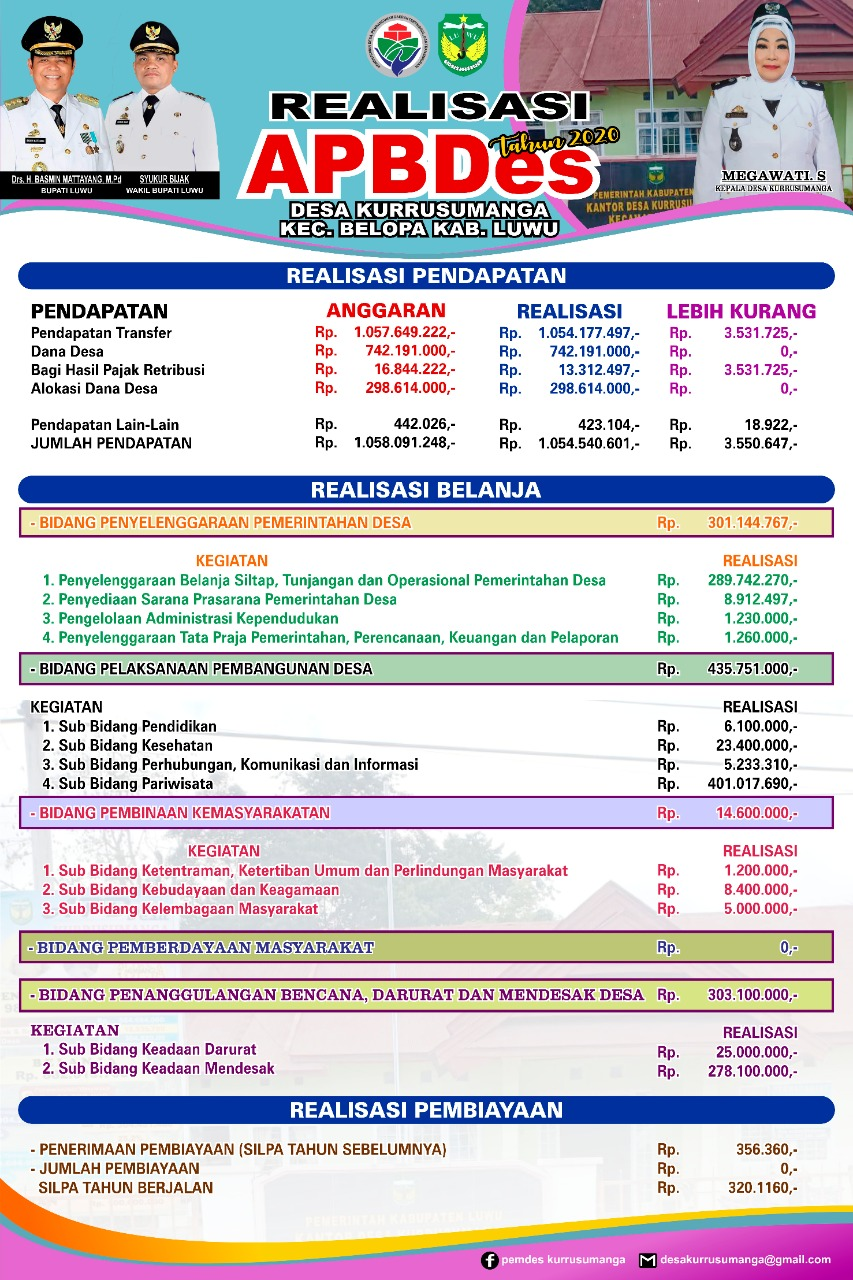
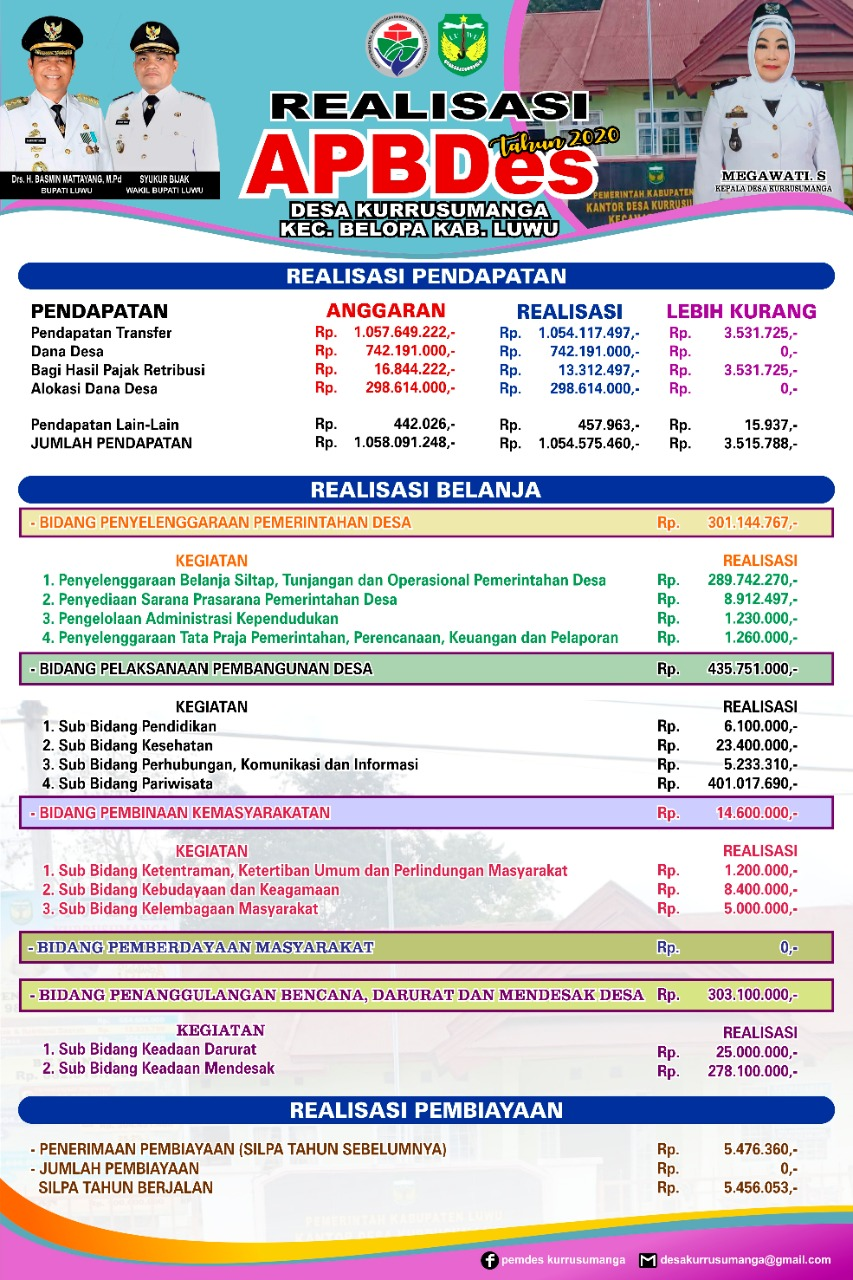
update web

diff --git a/resources/views/welcome.blade.php b/resources/views/welcome.blade.php
@@ -192,7 +192,7 @@
             <div class="team-member">
               <figure>
                 <ul class="social">
-                  <li><a href="https://web.facebook.com/megawati.i.hajar" target="_blank"><span class="icon-facebook"></span></a></li>
+                  <li><a href="https://web.facebook.com/profile.php?id=100043012689565" target="_blank"><span class="icon-facebook"></span></a></li>
                 </ul>
                 <img src="/images/kades.jpg" alt="Image" class="img-fluid">
               </figure>
@@ -287,7 +287,7 @@
                 <ul class="social">
                   <li><a href="https://web.facebook.com/suaib.yusuf.77"><span class="icon-facebook"></span></a></li>
                 </ul>
-                <img src="/images/anonym.jpg" alt="Image" class="img-fluid">
+                <img src="/images/suaib.jpeg" alt="Image" class="img-fluid">
               </figure>
               <div class="p-3">
                 <h3>Suaib, SP</h3>
@@ -302,7 +302,7 @@
                 <ul class="social">
                   <li><a href="https://web.facebook.com/masjud.ajju.7"><span class="icon-facebook"></span></a></li>
                 </ul>
-                <img src="/images/anonym.jpg" alt="Image" class="img-fluid">
+                <img src="/images/masjud.jpeg" alt="Image" class="img-fluid">
               </figure>
               <div class="p-3">
                 <h3>Masjud</h3>
@@ -320,7 +320,7 @@
                   <li><a href="#"><span class="icon-linkedin"></span></a></li>
                   <li><a href="#"><span class="icon-instagram"></span></a></li> -->
                 </ul>
-                <img src="/images/anonym.jpg" alt="Image" class="img-fluid">
+                <img src="/images/kurrusumanga.jpeg" alt="Image" class="img-fluid">
               </figure>
               <div class="p-3">
                 <h3>Firman Rahman</h3>
@@ -421,7 +421,7 @@
         <div class="row mb-2">
           <div class="col-12 text-center" data-aos="fade">
             <p class="lead text-dark font-weight-bold" data-aos="fade-up" data-aos-delay="100">Pendapatan Desa Tahun 2020</p>
-            <p class="text-dark text-center font-weight-bold" data-aos="fade-up" data-aos-delay="100">Total : Rp. 1,054,540,601,-</p>
+            <p class="text-dark text-center font-weight-bold" data-aos="fade-up" data-aos-delay="100">Total : Rp. 1,054,575,460,-</p>
           </div>
         </div>
         
@@ -442,7 +442,7 @@
 
         Pendapatan Lain-Lain
         <div class="progress mb-5" style="height: 35px;">
-          <div class="progress-bar bg-warning" role="progressbar" style="width: 0.04%;" aria-valuenow="0.04" aria-valuemin="0" aria-valuemax="100"><span class="text-dark" style="position: absolute; left:0; right:0;">Rp. 423.104,-</span></div>
+          <div class="progress-bar bg-warning" role="progressbar" style="width: 0.04%;" aria-valuenow="0.04" aria-valuemin="0" aria-valuemax="100"><span class="text-dark" style="position: absolute; left:0; right:0;">Rp. 457.963,-</span></div>
         </div>  
 
 
